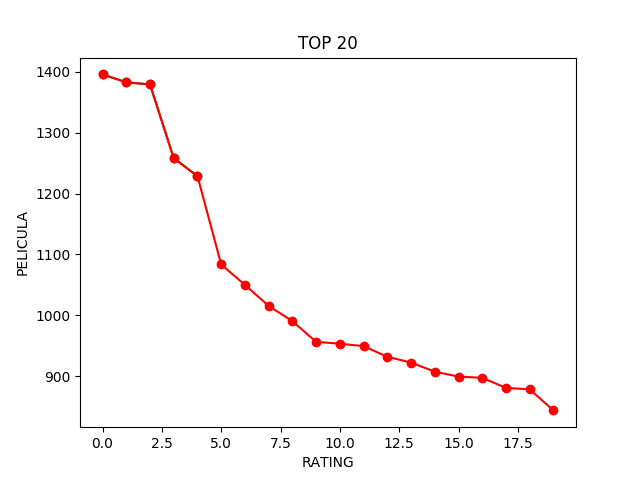
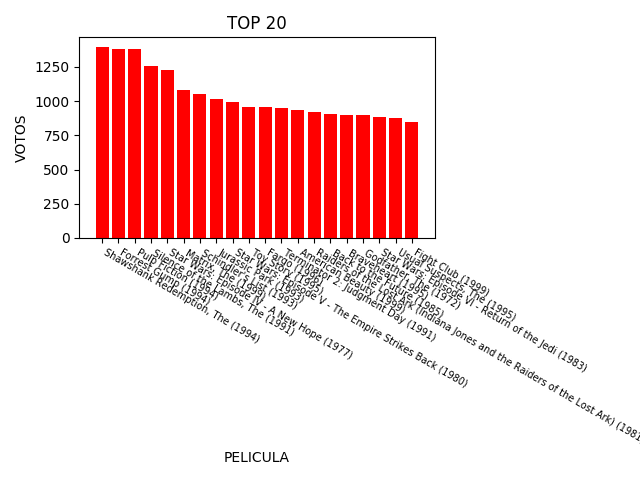
Correcciones

diff --git a/movies.py b/movies.py
@@ -141,29 +141,37 @@ top5 = top20[0:5]
 # so we can get the movies' titles
 top5_dict = top5.to_dict()
 prueba= top5_dict['rating'].values()
+name = top5_dict['rating'].keys()
+keys = list(name)
 
 plot1= list(prueba)
-plt.plot(plot1,color='green', marker='o', linestyle='solid')
-plt.xlabel('RATING')
-plt.ylabel('PELICULA')
+
+plt.xticks(range(1, 6), keys,rotation = -30, fontsize = 7, ha= 'left')
+plt.bar(range(1,6),plot1,color='red', align='center')
+plt.xlabel('PELICULA')
+plt.ylabel('VOTOS')
 plt.title('TOP 5')
-plt.legend()
+plt.tight_layout()
+#print(prueba)
 plt.savefig("top5.png")
 
-print("holaaa ya llegue aqui")
-print(plot1)
+
 
 top20_dict = top20.to_dict()
 prueba2= top20_dict['rating'].values()
+name2 = top20_dict['rating'].keys()
+keys2 = list(name2)
 plot2= list(prueba2)
-plt.plot(plot2,color='red', marker='o', linestyle='solid')
-plt.xlabel('RATING')
-plt.ylabel('PELICULA')
+#print(prueba2)
+plt.xticks(range(1, 21), keys2, rotation = -30, fontsize = 7, ha= 'left')
+plt.bar(range(1,21),plot2,color='red',align='center')
+plt.xlabel('PELICULA')
+plt.ylabel('VOTOS')
 plt.title('TOP 20')
-plt.legend()
+plt.tight_layout()
+
 plt.savefig("top20.png")
-print("holaaa ya llegue aqui2")
-print(plot2)
+
 
 # We need to get the items (Movies titles)
 top5_items = top5_dict['rating'].items()

diff --git a/README.md b/README.md
@@ -1,1 +1,2 @@
 # graficas
+** En las correspondientes graficas se muestra el top 5 y el top 20 de las peliculas segun los votos de los usuarios 
